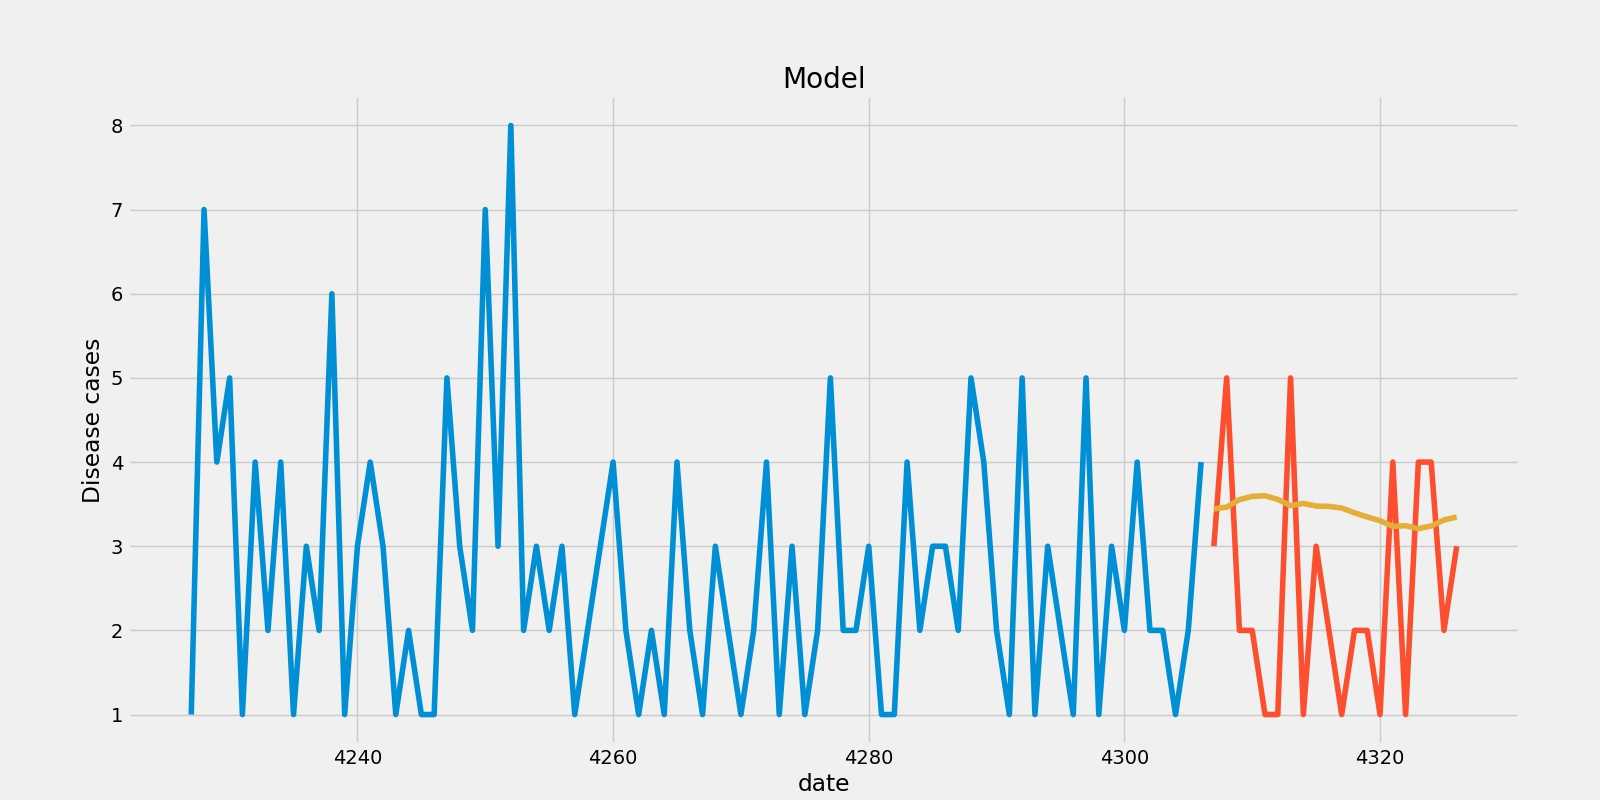
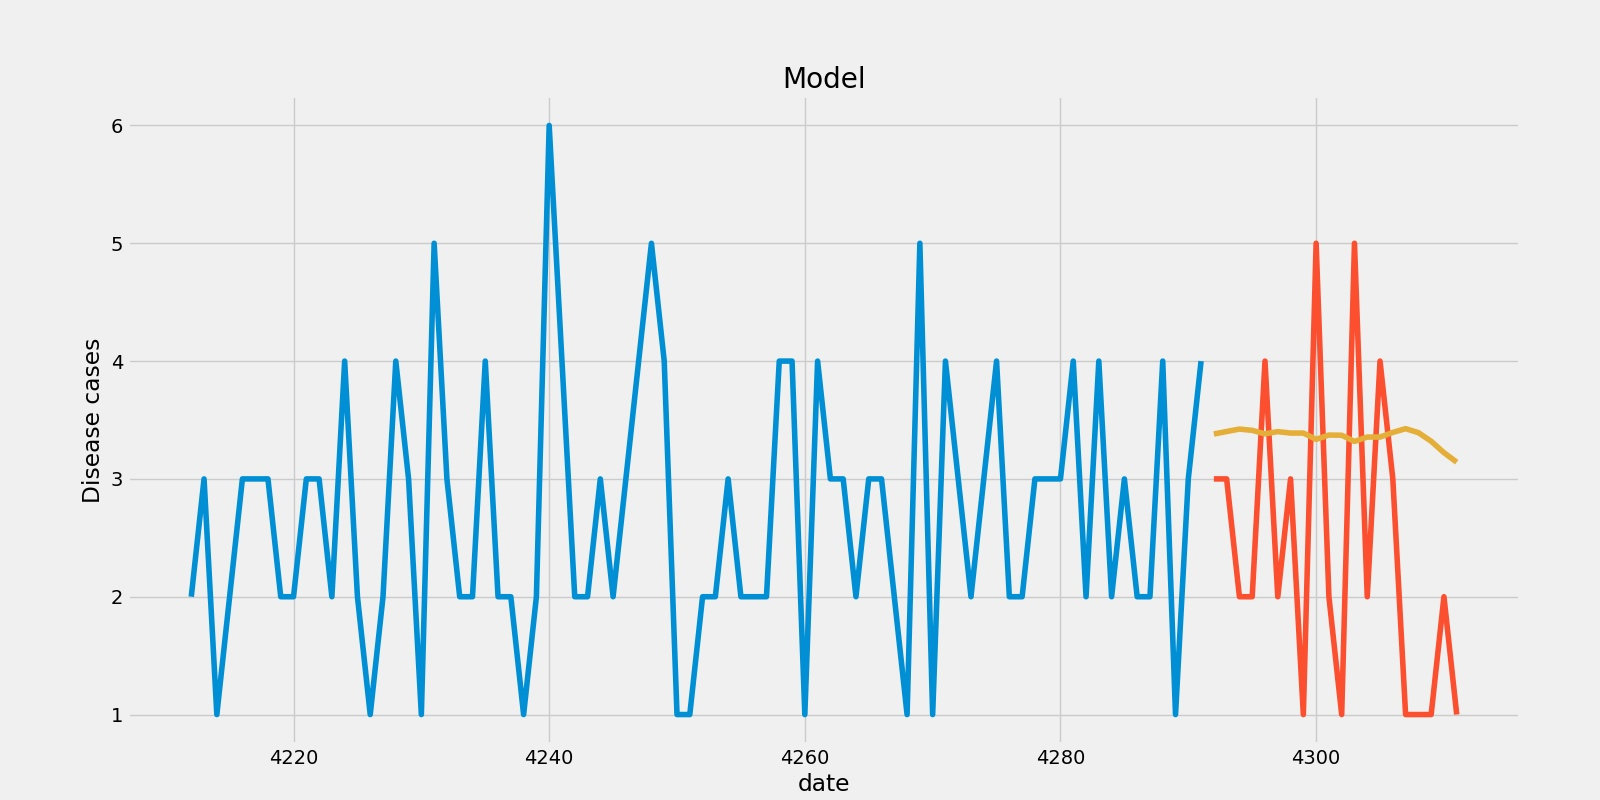
updated location and disease variables

diff --git a/pages/ml.py b/pages/ml.py
@@ -8,9 +8,10 @@ from tensorflow.keras.models import load_model
 
 
 class ML:
-
-    def __init__(self):
-        pass
+    location=disease=None
+    def __init__(self,location,disease):
+        self.location=location
+        self.disease=disease
 
     def generate_csv(self):
         # Code to Rearrange and sort data to desired location and disease
@@ -22,8 +23,8 @@ class ML:
         # set date as the index
         data = data.set_index('date')
         # get disease and location specific data
-        disease = data[data.disease == 'malaria']
-        location = disease[disease.location == 'machakos']
+        disease = data[data.disease == self.disease]
+        location = disease[disease.location == self.location]
         location.head(10)
 
         # Count disease cases in the specific location
@@ -97,6 +98,6 @@ class ML:
         plt.savefig('../pages/data/{}disease.jpg'.format(121212))
 
 
-ml = ML()
+ml = ML(disease='cholera',location='nairobi')
 ml.generate_csv()
 ml.generate_predictions()
